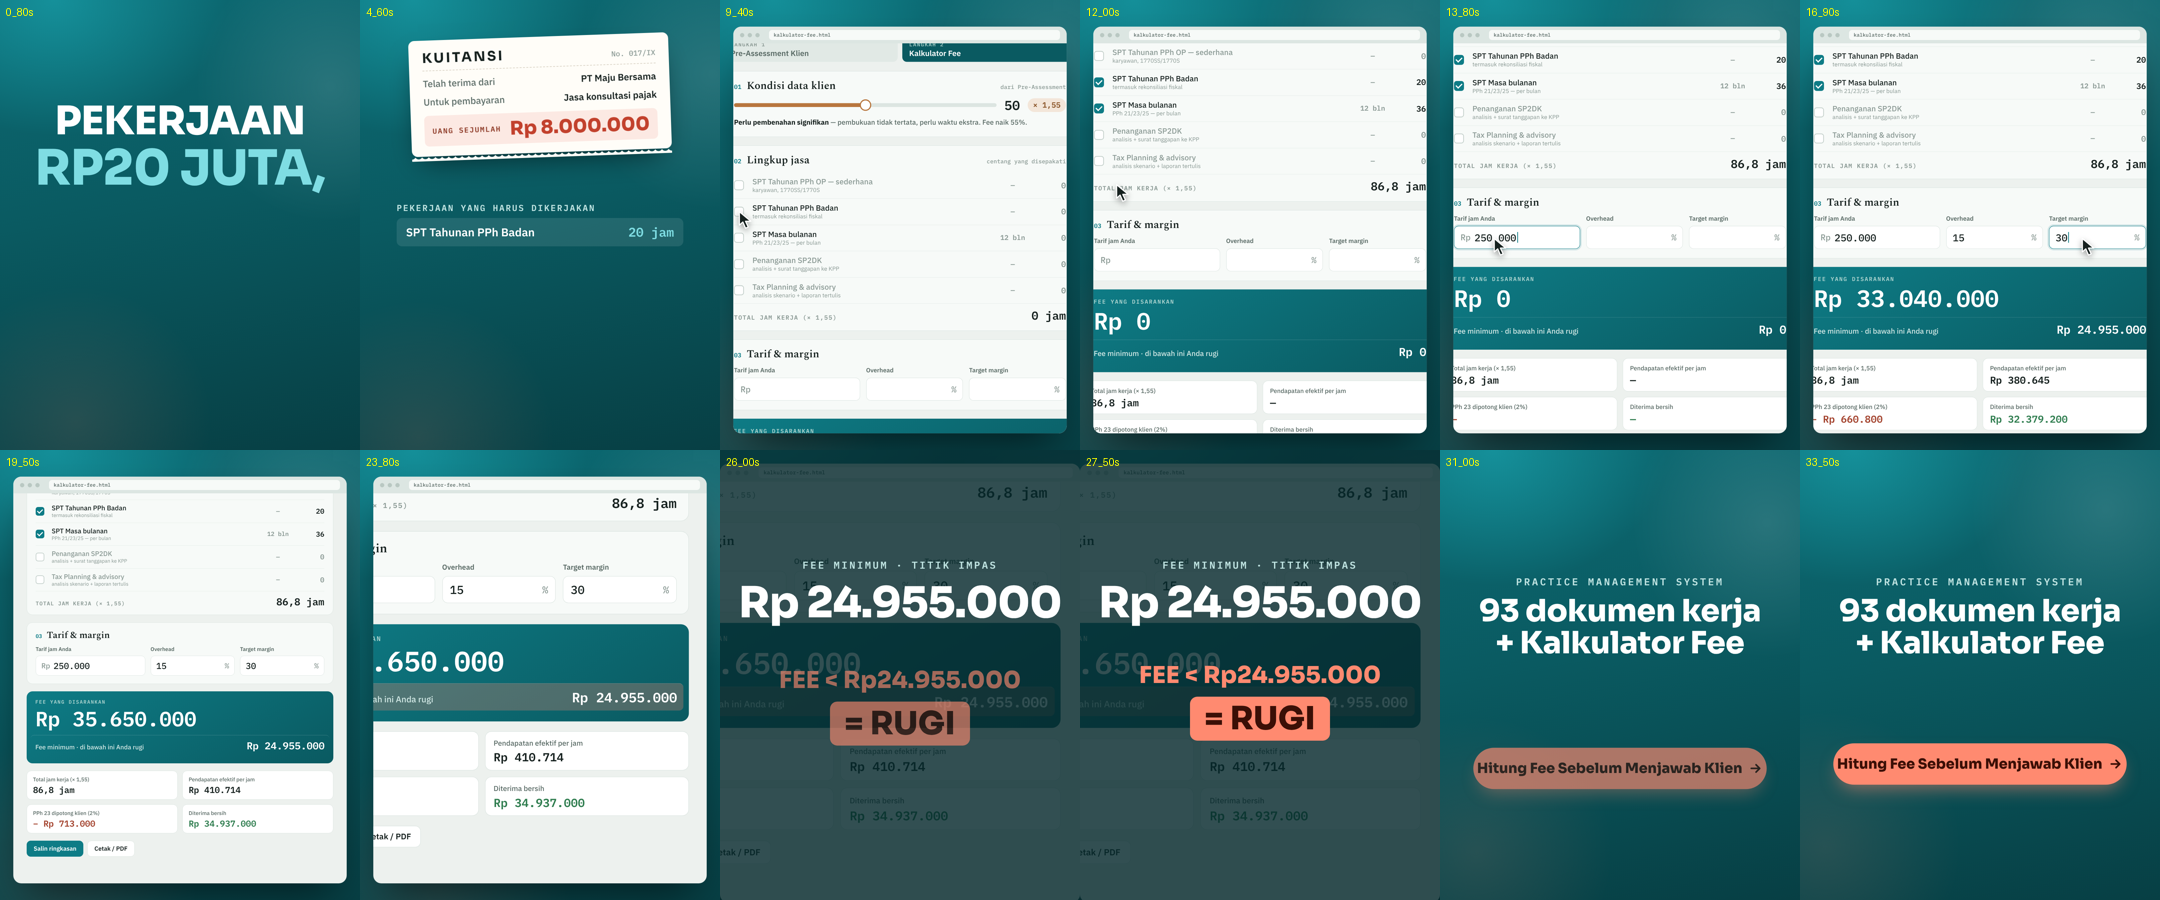
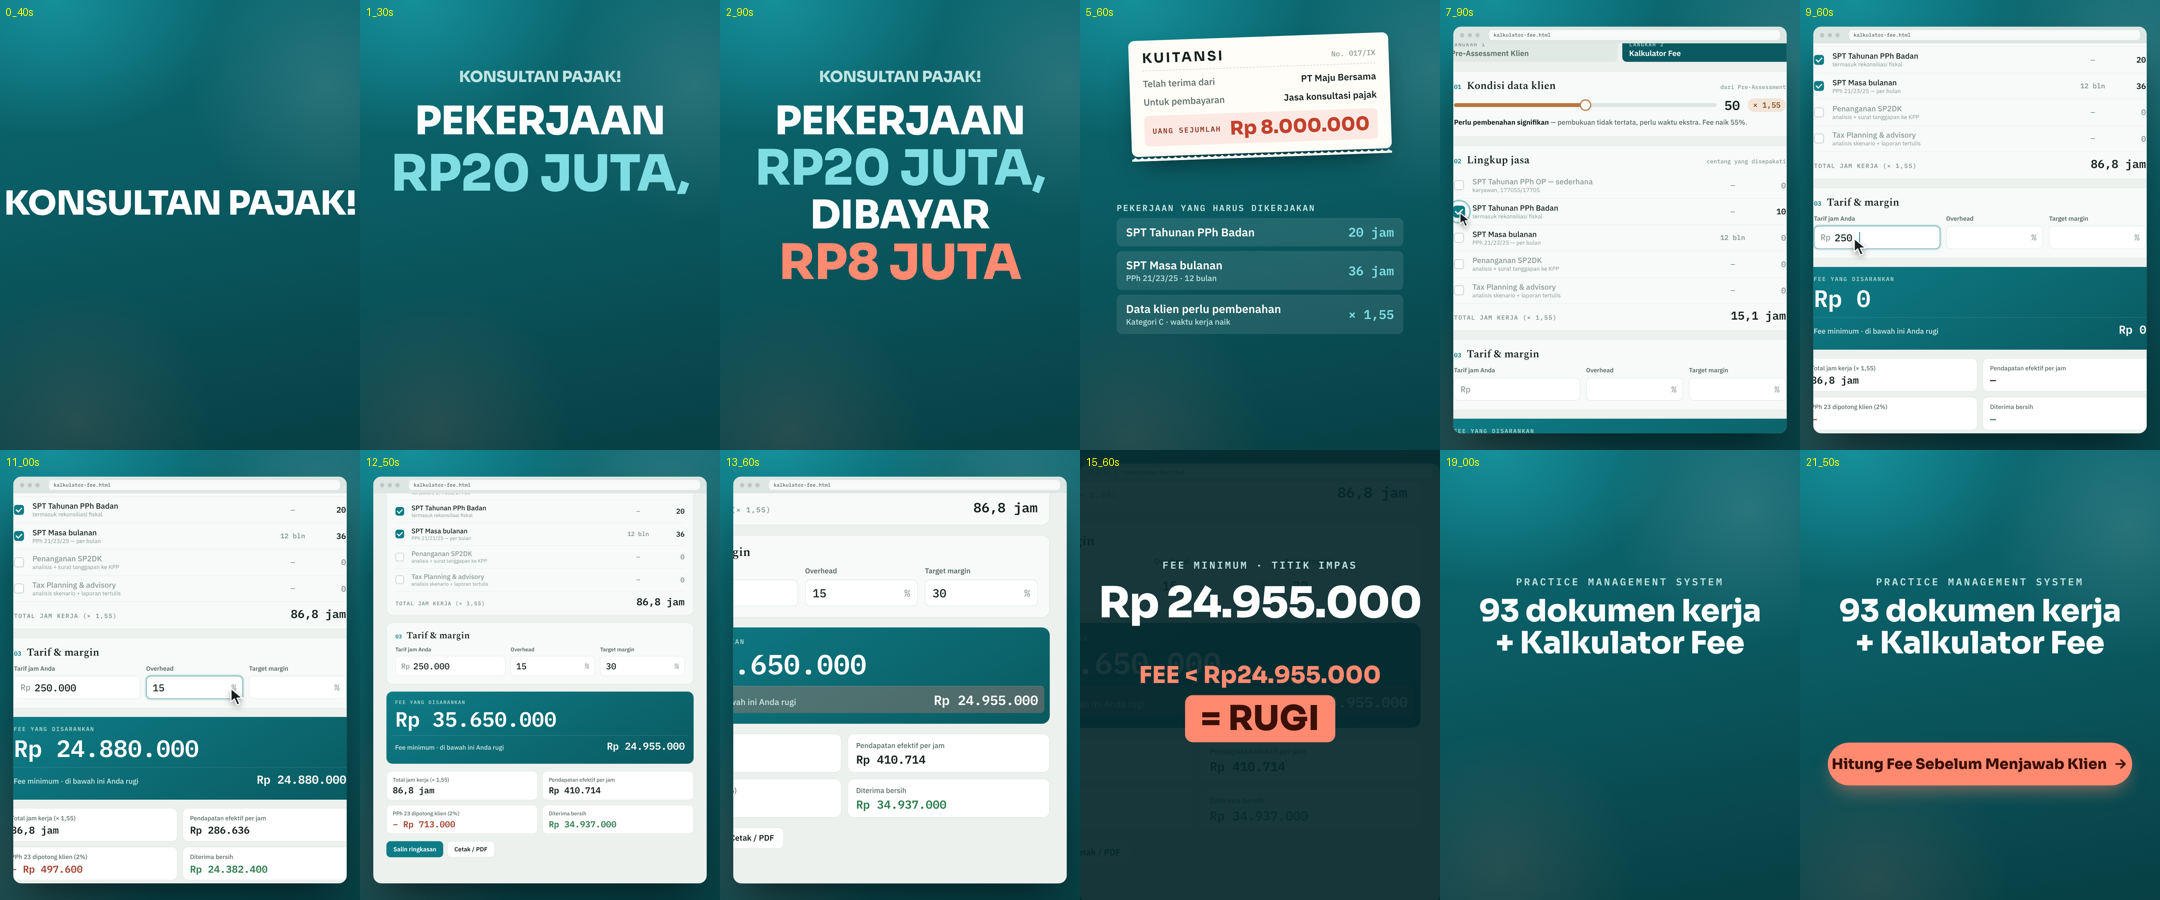
Promo-11: callout audiens di awal, demo kalkulator dipadatkan (35 → 23 detik)
Claude-Session: https://claude.ai/code/session_01BkuGfbskMB3XfNkd88enUZ

diff --git a/projects/promo-11/index.html b/projects/promo-11/index.html
@@ -35,6 +35,9 @@ html,body{width:100%;height:100%;background:#000;overflow:hidden;font-family:var
 #g1{left:520px;top:-260px;width:900px;height:900px;background:radial-gradient(circle,rgba(255,255,255,.12),transparent 64%)}
 #g2{left:-300px;top:800px;width:900px;height:900px;background:radial-gradient(circle,rgba(255,138,112,.12),transparent 64%)}
 
+/* ---------- 0 · callout audience ---------- */
+#call{position:absolute;left:0;right:0;top:560px;text-align:center;z-index:21;transform-origin:50% 50%}
+#call span{display:inline-block;font:800 100px/1 var(--disp);color:#fff;letter-spacing:-.01em;white-space:nowrap}
 /* ---------- 1 · hook ---------- */
 #hook{position:absolute;left:0;right:0;top:300px;text-align:center;z-index:20}
 .hk{display:block;overflow:hidden}
@@ -149,6 +152,7 @@ html,body{width:100%;height:100%;background:#000;overflow:hidden;font-family:var
 <div id="stage">
   <i class="glow" id="g1"></i><i class="glow" id="g2"></i>
 
+  <div id="call"><span>KONSULTAN PAJAK!</span></div>
   <div id="hook">
     <div class="hk" id="k1"><span>PEKERJAAN</span></div>
     <div class="hk n" id="k2"><span>RP20 JUTA,</span></div>
@@ -216,7 +220,7 @@ html,body{width:100%;height:100%;background:#000;overflow:hidden;font-family:var
 
 <script>
 const $=(s,r=document)=>r.querySelector(s),$$=(s,r=document)=>[...r.querySelectorAll(s)];
-const W=1080,H=1350,DURATION=35;
+const W=1080,H=1350,DURATION=23;
 /* angka dari Kalkulator Fee asli */
 const FAKTOR=1.55,TARIF=250000,OH=15,MG=30;
 const N={base:0,min:0,fee:0};
@@ -252,64 +256,69 @@ function build(){
 tl.clear();PH=$('.page').offsetHeight;
 /* keadaan awal — eksplisit supaya tiap putaran bersih */
 tl.set(N,{base:0,min:0,fee:0},0);Object.values(TY).forEach(o=>tl.set(o,{n:0},0));tl.set(CAM,{s:1,x:0,y:0},0);
-tl.set($$('.hk span'),{yPercent:110},0);tl.set('#hook',{y:0,opacity:1,x:0},0);
+tl.set($$('.hk span'),{yPercent:110},0);tl.set('#call',{y:0,scale:1,opacity:1,x:0},0);tl.set('#call span',{color:'#fff'},0);tl.set('#hook',{y:0,opacity:1,x:0},0);
 tl.set(['#rcpt','#jobs .t','#zoom','#end','#cta','#cursor','#ring'],{opacity:0},0);tl.set($$('.jb'),{opacity:0,x:-40},0);
 tl.set('#rcpt',{y:60,rotation:-2,scale:1},0);tl.set('#jobs',{y:0,opacity:1},0);
 tl.set('#win',{opacity:0,y:120,scale:1},0);tl.set($$('#k2s .cb i'),{scale:0},0);tl.set(['#lA','#lB'],{className:'lg'},0);
 tl.set($$('.in'),{className:'in'},0);tl.set('#rowMin',{backgroundColor:'rgba(255,138,112,0)'},0);
 tl.set('#zoom .num',{scale:.6,opacity:0},0);tl.set('#zoom .rule',{y:40,opacity:0},0);tl.set('#cta',{y:40,scale:1},0);tl.set('#end',{y:40},0);
 
-/* ===== 0–3 HOOK ===== */
-tl.to('#k1 span',{yPercent:0,duration:.4,ease:'power4.out'},.05);
-tl.fromTo('#k2 span',{yPercent:110,scale:1.3},{yPercent:0,scale:1,duration:.45,ease:'power4.out',immediateRender:false},.4);
-tl.to('#k3 span',{yPercent:0,duration:.4,ease:'power4.out'},1.15);
-tl.fromTo('#k4 span',{yPercent:110,scale:1.3},{yPercent:0,scale:1,duration:.45,ease:'power4.out',immediateRender:false},1.5);
-tl.fromTo('#hook',{x:0},{keyframes:[{x:-12},{x:9},{x:-5},{x:0}],duration:.28,immediateRender:false},1.95);
-tl.to('#hook',{y:-140,opacity:0,duration:.4,ease:'power2.in'},2.85);
+/* ===== 0–0,8 CALLOUT AUDIENCE ===== */
+tl.fromTo('#call',{scale:1.6,opacity:0},{scale:1,opacity:1,duration:.3,ease:'power4.in',immediateRender:false},0);
+tl.fromTo('#call',{x:0},{keyframes:[{x:-12},{x:9},{x:-5},{x:0}],duration:.25,immediateRender:false},.3);
+// callout naik jadi label di atas hook
+tl.to('#call',{y:-380,scale:.46,duration:.32,ease:'power3.inOut'},.62);tl.to('#call span',{color:'#BFE3E1',duration:.32},.62);
 
-/* ===== 3–8 KUITANSI Rp 8 juta + pekerjaan muncul satu per satu ===== */
-tl.to('#rcpt',{opacity:1,y:0,rotation:-2,duration:.55,ease:'back.out(1.6)'},3.05);
-tl.to('#jobs .t',{opacity:1,duration:.3},3.9);
-$$('.jb').forEach((j,i)=>tl.to(j,{opacity:1,x:0,duration:.4,ease:'power3.out'},4.2+i*.75));
-tl.fromTo('#rcpt .amt b',{scale:1},{scale:1.08,duration:.25,yoyo:true,repeat:1,ease:'sine.inOut',transformOrigin:'100% 50%',immediateRender:false},7.0);
-tl.to(['#rcpt','#jobs'],{opacity:0,y:-80,duration:.45,ease:'power2.in',stagger:.05},7.6);
+/* ===== 0,8–3,3 HOOK ===== */
+tl.to('#k1 span',{yPercent:0,duration:.35,ease:'power4.out'},.92);
+tl.fromTo('#k2 span',{yPercent:110,scale:1.3},{yPercent:0,scale:1,duration:.4,ease:'power4.out',immediateRender:false},1.15);
+tl.to('#k3 span',{yPercent:0,duration:.35,ease:'power4.out'},1.8);
+tl.fromTo('#k4 span',{yPercent:110,scale:1.3},{yPercent:0,scale:1,duration:.4,ease:'power4.out',immediateRender:false},2.1);
+tl.fromTo('#hook',{x:0},{keyframes:[{x:-12},{x:9},{x:-5},{x:0}],duration:.28,immediateRender:false},2.5);
+tl.to(['#call','#hook'],{y:'-=140',opacity:0,duration:.35,ease:'power2.in'},3.2);
 
-/* ===== 8–25 REKAMAN LAYAR: Kalkulator Fee ===== */
-tl.to('#win',{opacity:1,y:0,duration:.6,ease:'power3.out'},7.9);
+/* ===== 3,3–7 KUITANSI Rp 8 juta + pekerjaan muncul satu per satu ===== */
+tl.to('#rcpt',{opacity:1,y:0,rotation:-2,duration:.5,ease:'back.out(1.6)'},3.4);
+tl.to('#jobs .t',{opacity:1,duration:.25},4.0);
+$$('.jb').forEach((j,i)=>tl.to(j,{opacity:1,x:0,duration:.35,ease:'power3.out'},4.2+i*.55));
+tl.fromTo('#rcpt .amt b',{scale:1},{scale:1.08,duration:.22,yoyo:true,repeat:1,ease:'sine.inOut',transformOrigin:'100% 50%',immediateRender:false},6.3);
+tl.to(['#rcpt','#jobs'],{opacity:0,y:-80,duration:.4,ease:'power2.in',stagger:.04},6.75);
+
+/* ===== 7–14 REKAMAN LAYAR: Kalkulator Fee (dipadatkan) ===== */
+tl.to('#win',{opacity:1,y:0,duration:.45,ease:'power3.out'},7.0);
 const pA=pos($('#lA .cb')),pB=pos($('#lB .cb')),k2=pos($('#k2s')),k3=pos($('#k3s')),k4=pos($('#k4s'));
 const iT=pos($('#iT')),iO=pos($('#iO')),iM=pos($('#iM')),rm=pos($('#rowMin'));
-look(8.3,1.0,500,k2.cy,1.15);                                           // dekat ke lingkup jasa
-tl.set('#cursor',{left:pA.cx+260,top:pA.cy+180},8.6);tl.to('#cursor',{opacity:1,duration:.2},8.6);
-mv(8.8,.7,pA);click(9.55,pA);tl.to('#lA .cb i',{scale:1,duration:.25,ease:'back.out(3)'},9.6);tl.set('#lA',{className:'lg on'},9.6);
-tl.to(N,{base:20,duration:.35,ease:'power2.out'},9.65);
-mv(10.0,.5,pB);click(10.6,pB);tl.to('#lB .cb i',{scale:1,duration:.25,ease:'back.out(3)'},10.65);tl.set('#lB',{className:'lg on'},10.65);
-tl.to(N,{base:56,duration:.4,ease:'power2.out'},10.7);
-look(11.4,.9,500,k3.cy+40,1.15);                                        // geser ke tarif & margin
-mv(11.6,.8,iT,-60,4);click(12.35,iT);tl.set('#iT',{className:'in focus'},12.4);
-tl.to(TY.t,{n:1,duration:1.2,ease:'none'},12.6);
-tl.to(N,{min:86.8*TARIF,fee:86.8*TARIF,duration:.5,ease:'power2.out'},13.85);
-mv(14.0,.45,iO,-40,4);click(14.5,iO);tl.set('#iT',{className:'in'},14.5);tl.set('#iO',{className:'in focus'},14.5);
-tl.to(TY.o,{n:1,duration:.45,ease:'none'},14.7);
-tl.to(N,{min:86.8*TARIF*(1+OH/100),fee:86.8*TARIF*(1+OH/100),duration:.5,ease:'power2.out'},15.2);
-mv(15.4,.45,iM,-40,4);click(15.9,iM);tl.set('#iO',{className:'in'},15.9);tl.set('#iM',{className:'in focus'},15.9);
-tl.to(TY.m,{n:1,duration:.45,ease:'none'},16.1);
-tl.to(N,{fee:86.8*TARIF*(1+OH/100)/(1-MG/100),duration:.8,ease:'power2.out'},16.6);
-tl.set('#iM',{className:'in'},17.4);tl.to('#cursor',{opacity:0,duration:.25},17.3);
-look(17.2,1.1,500,k4.cy-80,1.0);                                        // turun ke hasil
-look(19.6,2.2,500,k4.cy,1.25);                                          // dorong pelan ke hasil
-tl.to('#rowMin',{backgroundColor:'rgba(255,138,112,.28)',duration:.4},21.9);
-look(22.0,2.0,rm.cx+150,rm.cy,1.35);                                           // dekat ke fee minimum
-/* ===== 25–30 ANGKA DIPERBESAR: FEE < Rp24.955.000 = RUGI ===== */
-tl.to('#win',{scale:1.08,duration:1.2,ease:'power2.in'},24.4);
-tl.to('#zoom',{opacity:1,duration:.4},25.0);
-tl.to('#zoom .num',{opacity:1,scale:1,duration:.5,ease:'back.out(1.7)'},25.1);
-tl.to('#zoom .rule',{opacity:1,y:0,duration:.45,ease:'power3.out'},25.9);
-tl.fromTo('#zoom .rule em',{scale:1},{scale:1.1,duration:.22,yoyo:true,repeat:1,ease:'sine.inOut',immediateRender:false},26.5);
-/* ===== 30–35 PENUTUP ===== */
-tl.to(['#zoom','#win'],{opacity:0,duration:.45,ease:'power2.in'},29.8);
-tl.to('#end',{opacity:1,y:0,duration:.6,ease:'power3.out'},30.2);
-tl.to('#cta',{opacity:1,y:0,duration:.55,ease:'back.out(1.8)'},30.9);
-tl.to('#cta',{scale:1.05,duration:.3,ease:'sine.inOut',yoyo:true,repeat:5},31.7);
+look(7.05,.6,500,k2.cy,1.15);
+tl.set('#cursor',{left:pA.cx+220,top:pA.cy+140},7.3);tl.to('#cursor',{opacity:1,duration:.15},7.3);
+mv(7.35,.4,pA);click(7.8,pA);tl.to('#lA .cb i',{scale:1,duration:.2,ease:'back.out(3)'},7.82);tl.set('#lA',{className:'lg on'},7.82);
+tl.to(N,{base:20,duration:.25,ease:'power2.out'},7.85);
+mv(8.0,.3,pB);click(8.35,pB);tl.to('#lB .cb i',{scale:1,duration:.2,ease:'back.out(3)'},8.37);tl.set('#lB',{className:'lg on'},8.37);
+tl.to(N,{base:56,duration:.3,ease:'power2.out'},8.4);
+look(8.6,.6,500,k3.cy+40,1.15);
+mv(8.7,.45,iT,-60,4);click(9.2,iT);tl.set('#iT',{className:'in focus'},9.22);
+tl.to(TY.t,{n:1,duration:.6,ease:'none'},9.3);
+tl.to(N,{min:86.8*TARIF,fee:86.8*TARIF,duration:.35,ease:'power2.out'},9.9);
+mv(10.0,.3,iO,-40,4);click(10.35,iO);tl.set('#iT',{className:'in'},10.35);tl.set('#iO',{className:'in focus'},10.35);
+tl.to(TY.o,{n:1,duration:.25,ease:'none'},10.45);
+tl.to(N,{min:86.8*TARIF*(1+OH/100),fee:86.8*TARIF*(1+OH/100),duration:.35,ease:'power2.out'},10.75);
+mv(10.85,.3,iM,-40,4);click(11.2,iM);tl.set('#iO',{className:'in'},11.2);tl.set('#iM',{className:'in focus'},11.2);
+tl.to(TY.m,{n:1,duration:.25,ease:'none'},11.3);
+tl.to(N,{fee:86.8*TARIF*(1+OH/100)/(1-MG/100),duration:.5,ease:'power2.out'},11.6);
+tl.set('#iM',{className:'in'},12.0);tl.to('#cursor',{opacity:0,duration:.2},11.9);
+look(11.9,.7,500,k4.cy-80,1.0);                                         // turun ke hasil
+tl.to('#rowMin',{backgroundColor:'rgba(255,138,112,.28)',duration:.3},12.8);
+look(12.8,1.0,rm.cx+150,rm.cy,1.35);                                    // dekat ke fee minimum
+/* ===== 14–18,4 ANGKA DIPERBESAR: FEE < Rp24.955.000 = RUGI ===== */
+tl.to('#win',{scale:1.08,duration:.8,ease:'power2.in'},13.5);
+tl.to('#zoom',{opacity:1,duration:.35},14.0);
+tl.to('#zoom .num',{opacity:1,scale:1,duration:.45,ease:'back.out(1.7)'},14.1);
+tl.to('#zoom .rule',{opacity:1,y:0,duration:.4,ease:'power3.out'},14.75);
+tl.fromTo('#zoom .rule em',{scale:1},{scale:1.1,duration:.22,yoyo:true,repeat:1,ease:'sine.inOut',immediateRender:false},15.3);
+/* ===== 18,4–23 PENUTUP ===== */
+tl.to(['#zoom','#win'],{opacity:0,duration:.4,ease:'power2.in'},18.3);
+tl.to('#end',{opacity:1,y:0,duration:.55,ease:'power3.out'},18.6);
+tl.to('#cta',{opacity:1,y:0,duration:.5,ease:'back.out(1.8)'},19.2);
+tl.to('#cta',{scale:1.05,duration:.3,ease:'sine.inOut',yoyo:true,repeat:5},19.9);
 tl.to({},{duration:.01},DURATION-.01);
 }
 

diff --git a/projects/promo-11/vo-script.md b/projects/promo-11/vo-script.md
@@ -1,13 +1,12 @@
-# Skrip VO — Promo 11 (KP-D, 35 detik)
+# Skrip VO — Promo 11 (KP-D, 23 detik)
 
 Gaya suara: sama dengan "VID 15-10 8 VS 20 ORI VOICE". Angka ditulis dengan huruf supaya dibaca benar.
 
 | Detik | Di layar | VO |
 |---|---|---|
-| 0–3 | PEKERJAAN RP20 JUTA, DIBAYAR RP8 JUTA | Pekerjaan dua puluh juta, dibayar delapan juta. |
-| 3–8 | Kuitansi Rp 8.000.000, lalu daftar pekerjaan muncul satu per satu | Ini terjadi kalau fee disebut sebelum pekerjaannya dihitung. |
-| 8–25 | Rekaman layar Kalkulator Fee: centang lingkup jasa, isi tarif jam, overhead, margin | Masukkan lingkup jasanya, jam kerja, dan target margin Anda. |
-| 25–30 | Rp 24.955.000 diperbesar · FEE < Rp24.955.000 = RUGI | Fee di bawah dua puluh empat koma sembilan juta, Anda rugi. |
-| 30–35 | PRACTICE MANAGEMENT SYSTEM · 93 dokumen kerja + Kalkulator Fee · tombol | Hitung dulu, baru sebut angka. |
-
-Detik 8–25 berdurasi 17 detik, tapi VO-nya hanya sekitar 4 detik. Sisa waktunya diisi musik, atau VO boleh diberi jeda.
+| 0,0–0,9 | KONSULTAN PAJAK! (callout audiens) | Konsultan pajak! |
+| 0,9–3,3 | PEKERJAAN RP20 JUTA, DIBAYAR RP8 JUTA | Pekerjaan dua puluh juta, dibayar delapan juta. |
+| 3,3–7,0 | Kuitansi Rp 8.000.000, lalu daftar pekerjaan muncul satu per satu | Ini terjadi kalau fee disebut sebelum pekerjaannya dihitung. |
+| 7,0–14,0 | Rekaman layar Kalkulator Fee: centang lingkup jasa, isi tarif jam, overhead, margin | Masukkan lingkup jasanya, jam kerja, dan target margin Anda. |
+| 14,0–18,4 | Rp 24.955.000 diperbesar · FEE < Rp24.955.000 = RUGI | Fee di bawah dua puluh empat koma sembilan juta, Anda rugi. |
+| 18,4–23,0 | PRACTICE MANAGEMENT SYSTEM · 93 dokumen kerja + Kalkulator Fee · tombol | Hitung dulu, baru sebut angka. |
